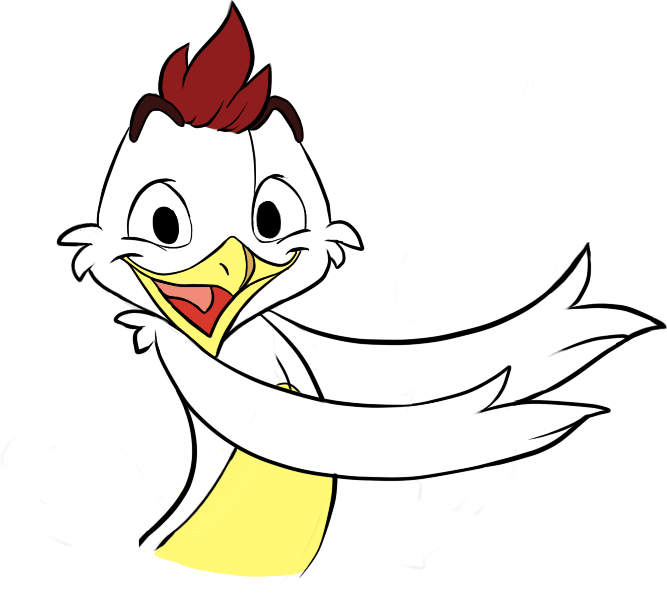
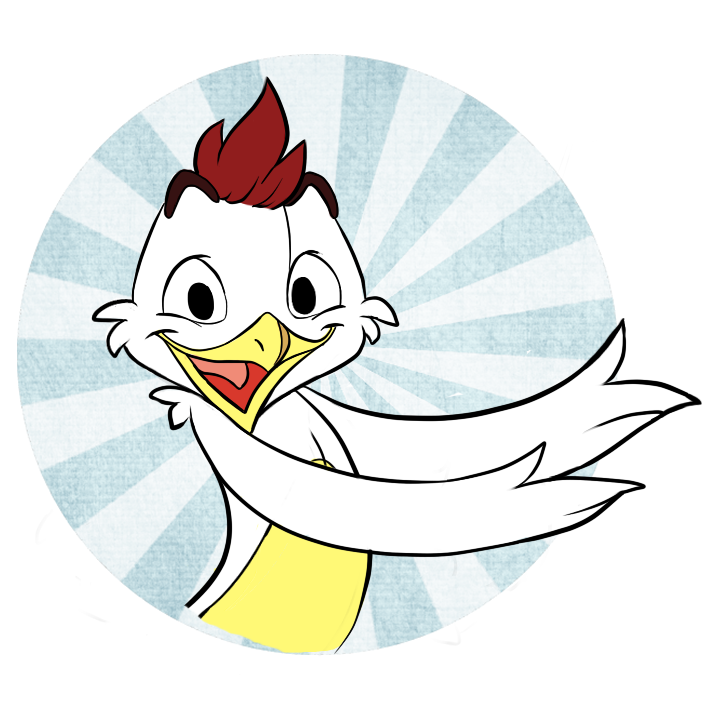
pantufas com background

diff --git a/www/templates/tab-intro.html b/www/templates/tab-intro.html
@@ -11,7 +11,7 @@
           </p>
           <br>
           <div id="logo">
-            <img src="img/pantufas_intro.png" style="width:250px;height:226px;margin:auto;display:block">
+            <img src="img/pantufas_intro.png" style="width:250px;height:227px;margin:auto;display:block">
             <!--<img src="img/SNP.jpg">-->
           </div>
           <br>
